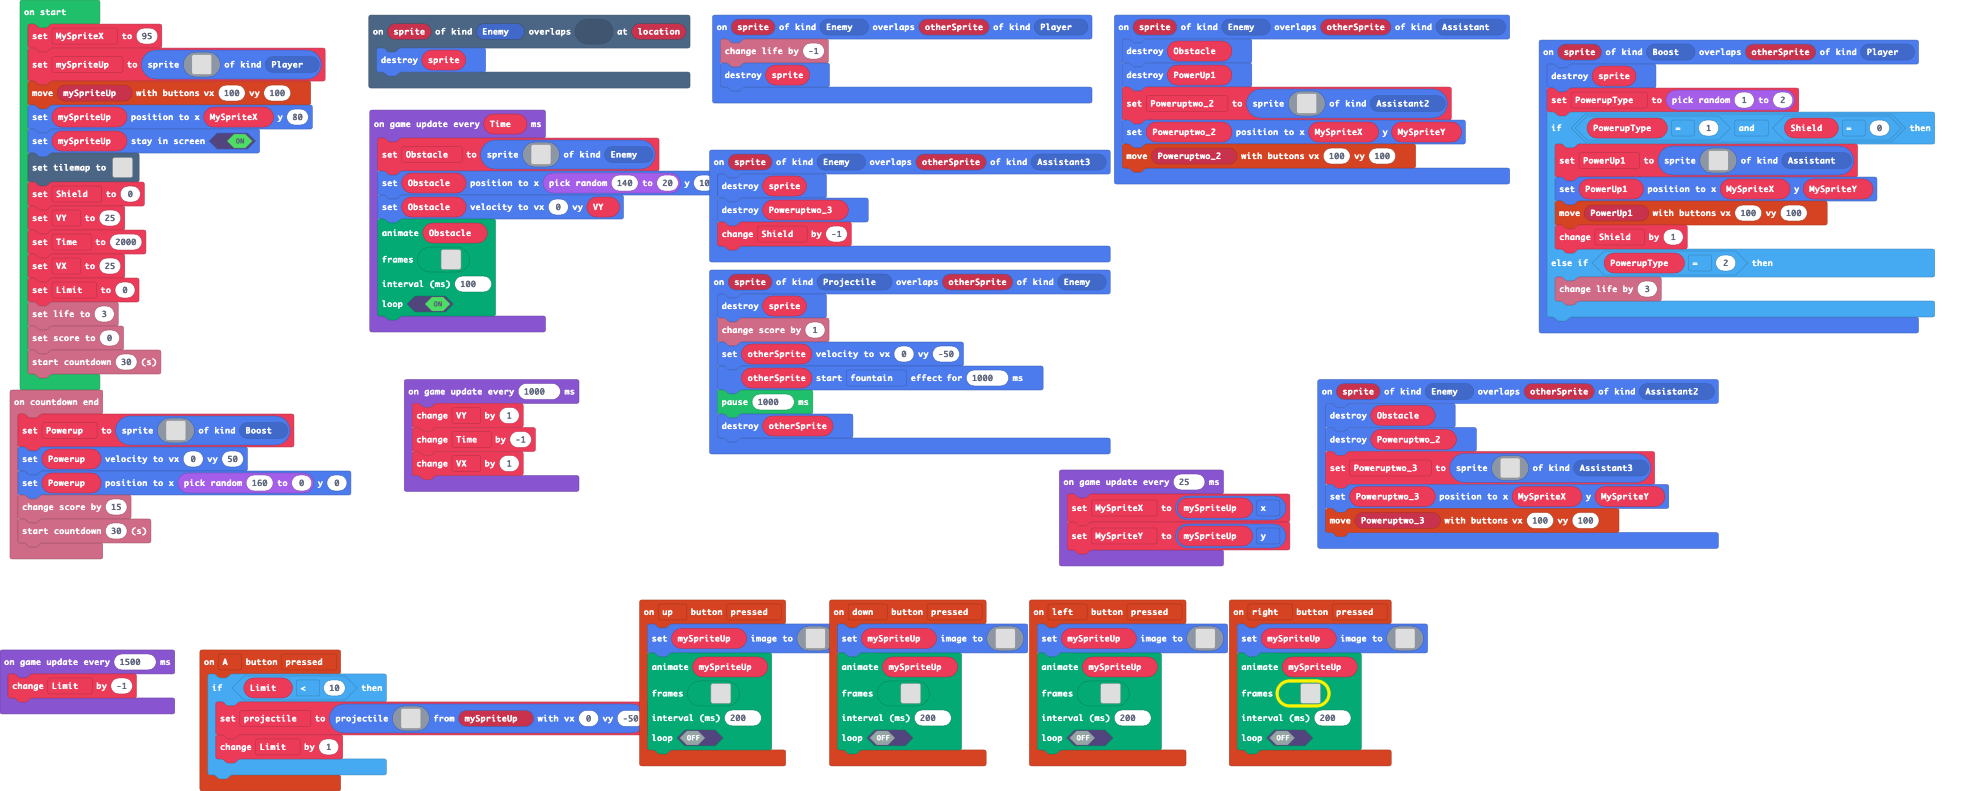
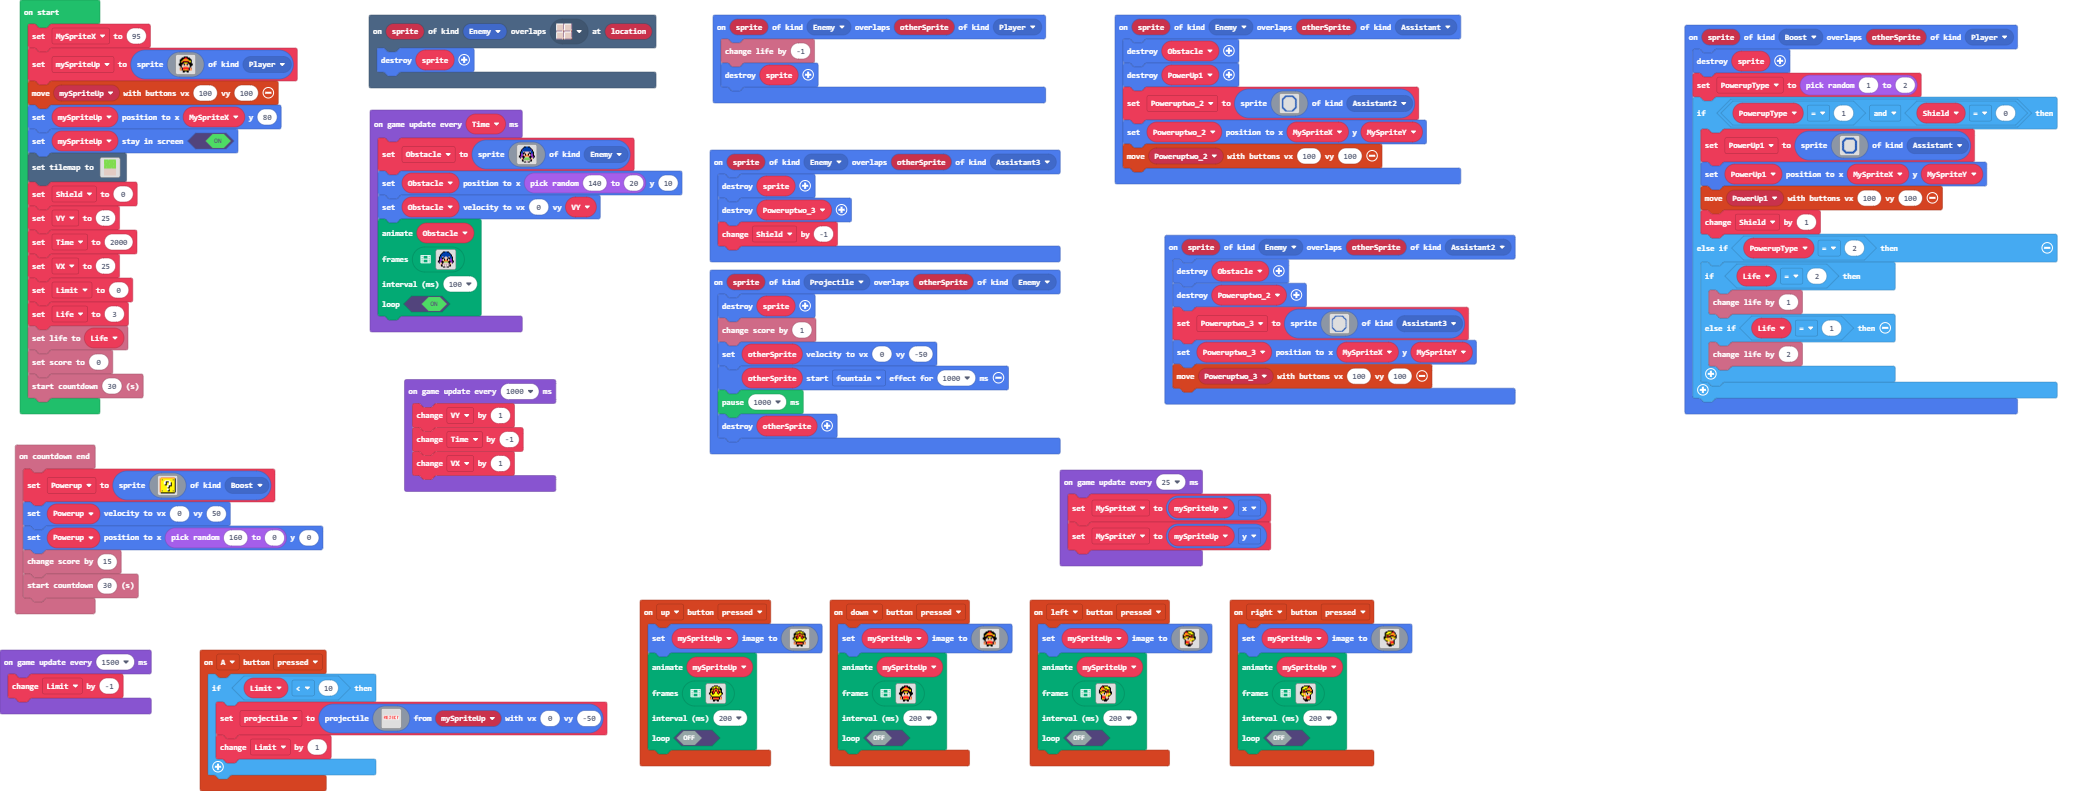
Update main.blocks, main.ts

diff --git a/main.ts b/main.ts
@@ -314,7 +314,11 @@ sprites.onOverlap(SpriteKind.Boost, SpriteKind.Player, function (sprite, otherSp
         controller.moveSprite(PowerUp1, 100, 100)
         Shield += 1
     } else if (PowerupType == 2) {
-        info.changeLifeBy(3)
+        if (Life == 2) {
+            info.changeLifeBy(1)
+        } else if (Life == 1) {
+            info.changeLifeBy(2)
+        }
     }
 })
 controller.right.onEvent(ControllerButtonEvent.Pressed, function () {
@@ -557,6 +561,7 @@ let MySpriteY = 0
 let Poweruptwo_3: Sprite = null
 let Poweruptwo_2: Sprite = null
 let Obstacle: Sprite = null
+let Life = 0
 let Limit = 0
 let Shield = 0
 let mySpriteUp: Sprite = null
@@ -589,7 +594,8 @@ let VY = 25
 let Time = 2000
 let VX = 25
 Limit = 0
-info.setLife(3)
+Life = 3
+info.setLife(Life)
 info.setScore(0)
 info.startCountdown(30)
 game.onUpdateInterval(25, function () {
